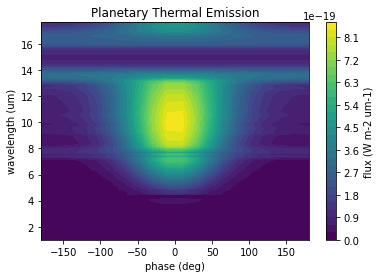
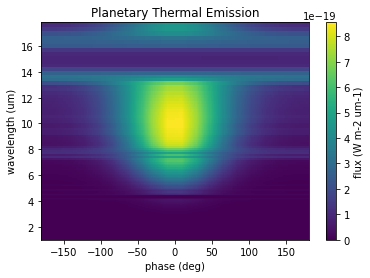
update readme

diff --git a/docs/readme.md b/docs/readme.md
@@ -36,7 +36,7 @@ import numpy as np
 
 
 ```python
-config_path = '../test/default.cfg'
+config_path = '../../test/default.cfg'
 model = VSPEC.ObservationModel(config_path)
 ```
 
@@ -56,14 +56,10 @@ Let's look at where our model parameters are stored. For example we can look at 
 
 
 ```python
-model.params.star_teff
+print(model.params.star_teff)
 ```
 
-
-
-
-$3300 \; \mathrm{K}$
-
+    3300.0 K
 
 
 Now we need to bin the spectra to the desired resolution. In the configureation file we specified:
@@ -135,7 +131,9 @@ sim_data = VSPEC.PhaseAnalyzer(data_path)
 
 
 ```python
-plt.contourf(sim_data.unique_phase-360*u.deg,sim_data.wavelength,sim_data.thermal,levels=30)
+plt.pcolormesh(VSPEC.helpers.to_float(sim_data.unique_phase-360*u.deg,u.deg),
+                VSPEC.helpers.to_float(sim_data.wavelength,u.um),
+                VSPEC.helpers.to_float(sim_data.thermal,u.Unit('W1m-2um-1')))
 plt.xlabel('phase (deg)')
 plt.ylabel('wavelength (um)')
 plt.title('Planetary Thermal Emission')
@@ -226,6 +224,24 @@ We can also look at the spectra produced at each phase step and combine multiple
 
 
 ```python
+sim_data.get_layer('Temp')
+```
+
+
+
+
+$[[189.026,~196.586,~225.905,~\dots,~185.426,~182.403,~181.744],~
+ [189.07122,~196.61418,~225.88558,~\dots,~185.42379,~182.39582,~181.73669],~
+ [189.11644,~196.64237,~225.86617,~\dots,~185.42157,~182.38864,~181.72939],~
+ \dots,~
+ [189.06639,~196.6253,~225.94193,~\dots,~185.42455,~182.40918,~181.75604],~
+ [189.01177,~196.57215,~225.89199,~\dots,~185.42651,~182.40082,~181.73976],~
+ [189.026,~196.586,~225.905,~\dots,~185.426,~182.403,~181.744]] \; \mathrm{K}$
+
+
+
+
+```python
 i=0
 binning = 50
 def makefig(i):
@@ -234,7 +250,7 @@ def makefig(i):
     # color = cm.viridis(np.cos(data.unique_phase[i])*0.5 + 0.5)
     color = 'k'
     sli = (max(0,i-binning),min(sim_data.N_images,i+binning))
-    ax[0].plot(sim_data.layers.loc[sim_data.unique_phase[i],:,'Temp[K]'],(sim_data.layers.loc[sim_data.unique_phase[i],:,'Pressure[bar]']),c=color)
+    ax[0].plot(sim_data.get_layer('Temp')[i,:],sim_data.get_layer('Pressure')[i,:],c=color)
     ax[0].set_yscale('log')
     ylim = ax[0].get_ylim()
 
@@ -273,8 +289,8 @@ def makefig(i):
     inax.set_ylabel('sep (mas)')
 
 
-    contrast = sim_data.combine('thermal',sli)/sim_data.combine('total',sli)
-    noise = sim_data.combine('noise',sli)/sim_data.combine('total',sli)
+    contrast = sim_data.spectrum('thermal',sli)/sim_data.spectrum('total',sli)
+    noise = sim_data.spectrum('noise',sli)/sim_data.spectrum('total',sli)
     ax[1].plot(sim_data.wavelength,contrast*1e6,c=color)
     ax[1].fill_between(sim_data.wavelength.value,(contrast + noise)*1e6,(contrast-noise)*1e6,color='k',alpha=0.3)
     ax[1].set_ylim(-1,100)
@@ -290,23 +306,8 @@ def makefig(i):
 makefig(300).show()
 ```
 
-    /var/folders/b4/9tq5p8g95dl0144rmgktxrvh0000gp/T/ipykernel_13774/1612521938.py:1: UserWarning: Matplotlib is currently using module://matplotlib_inline.backend_inline, which is a non-GUI backend, so cannot show the figure.
+    /var/folders/b4/9tq5p8g95dl0144rmgktxrvh0000gp/T/ipykernel_93570/1612521938.py:1: UserWarning: Matplotlib is currently using module://matplotlib_inline.backend_inline, which is a non-GUI backend, so cannot show the figure.
       makefig(300).show()
-
-
-
-    
-![png](readme_files/readme_27_1.png)
-    
-
-
-
-```python
-makefig(60).show()
-```
-
-    /var/folders/b4/9tq5p8g95dl0144rmgktxrvh0000gp/T/ipykernel_13774/1915159874.py:1: UserWarning: Matplotlib is currently using module://matplotlib_inline.backend_inline, which is a non-GUI backend, so cannot show the figure.
-      makefig(60).show()
 
 
 
@@ -317,7 +318,24 @@ makefig(60).show()
 
 
 ```python
-plt.contourf(sim_data.time.to(u.day),sim_data.wavelength,sim_data.total,levels=30)
+makefig(60).show()
+```
+
+    /var/folders/b4/9tq5p8g95dl0144rmgktxrvh0000gp/T/ipykernel_93570/1915159874.py:1: UserWarning: Matplotlib is currently using module://matplotlib_inline.backend_inline, which is a non-GUI backend, so cannot show the figure.
+      makefig(60).show()
+
+
+
+    
+![png](readme_files/readme_29_1.png)
+    
+
+
+
+```python
+plt.pcolormesh(VSPEC.helpers.to_float(sim_data.time,u.day),
+                VSPEC.helpers.to_float(sim_data.wavelength,u.um),
+                VSPEC.helpers.to_float(sim_data.total,u.Unit('W m-2 um-1')))
 plt.colorbar(label='flux (W m-2 um-1)')
 plt.yscale('log')
 plt.xlabel('time (day)')
@@ -333,7 +351,7 @@ plt.ylabel('wavelength (um)')
 
 
     
-![png](readme_files/readme_29_1.png)
+![png](readme_files/readme_30_1.png)
     
 
 
